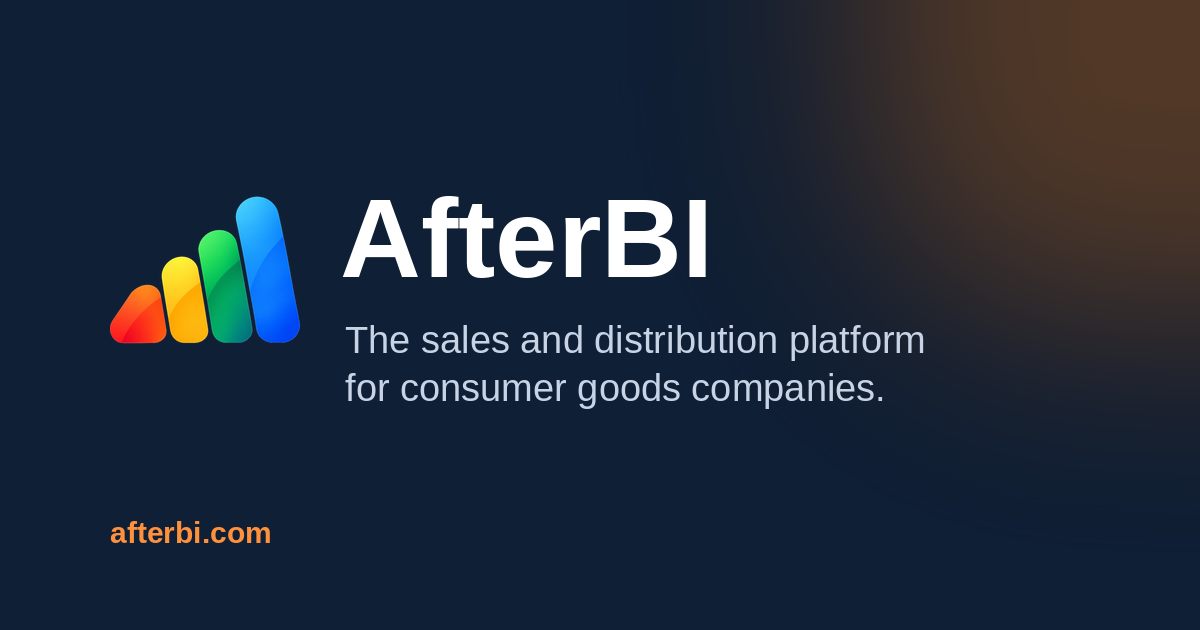
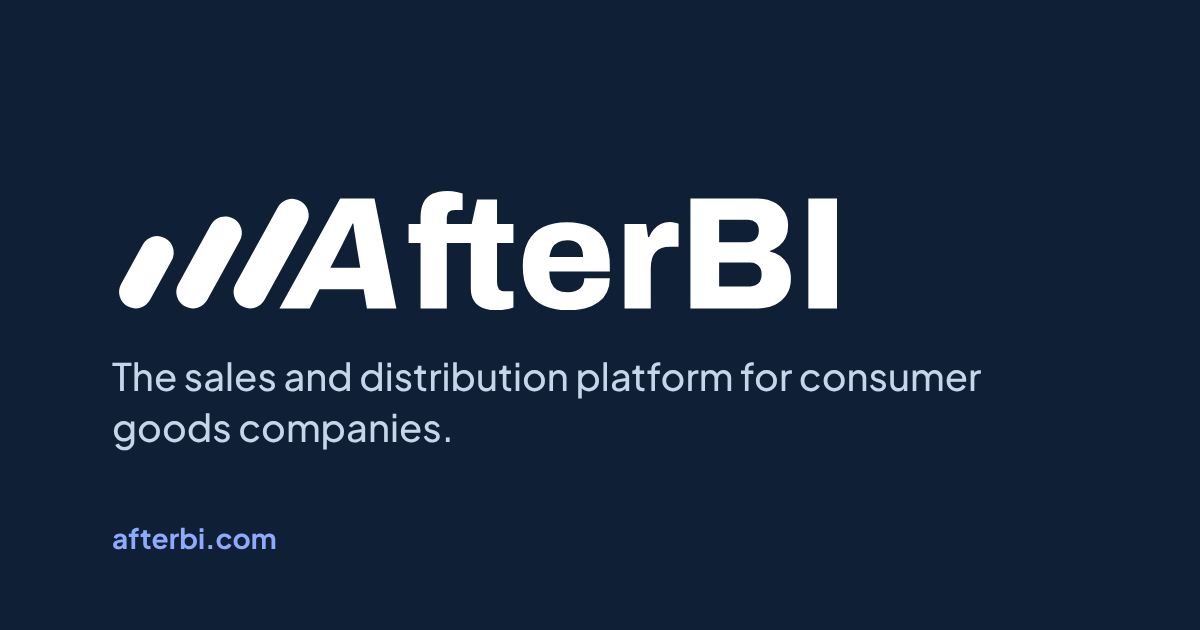
Add files via upload

Changed region(s): [[0.0925, 0.0, 1.0, 0.6635], [0.0925, 0.6635, 0.37, 0.7238], [0.0925, 0.8143, 0.2467, 0.8746]]

diff --git a/index.html b/index.html
@@ -13,9 +13,9 @@
     <meta name="viewport" content="width=device-width, initial-scale=1, maximum-scale=1, user-scalable=no, viewport-fit=cover" />
     <meta name="theme-color" content="#07884f" media="(prefers-color-scheme: light)" />
     <meta name="theme-color" content="#161618" media="(prefers-color-scheme: dark)" />
-    <link rel="icon" href="/icon.svg" type="image/svg+xml" />
-    <link rel="icon" href="/favicon.png" type="image/png" sizes="48x48" />
-    <link rel="apple-touch-icon" href="/apple-touch-icon.png" />
+    <link rel="icon" href="/icon.svg?v=2" type="image/svg+xml" />
+    <link rel="icon" href="/favicon.png?v=2" type="image/png" sizes="48x48" />
+    <link rel="apple-touch-icon" href="/apple-touch-icon.png?v=2" />
     <link rel="manifest" href="/manifest.webmanifest" />
     <meta name="apple-mobile-web-app-capable" content="yes" />
     <meta name="apple-mobile-web-app-title" content="AfterBI" />

diff --git a/public/sw.js b/public/sw.js
@@ -13,7 +13,7 @@
  * Bump VERSION when the icons or this file's strategy change; the old caches
  * are dropped on the next activation.
  */
-const VERSION = 'ab-v3';
+const VERSION = 'ab-v4';
 const SHELL = `${VERSION}-shell`;
 const ASSETS = `${VERSION}-assets`;
 const STATIC = `${VERSION}-static`;
